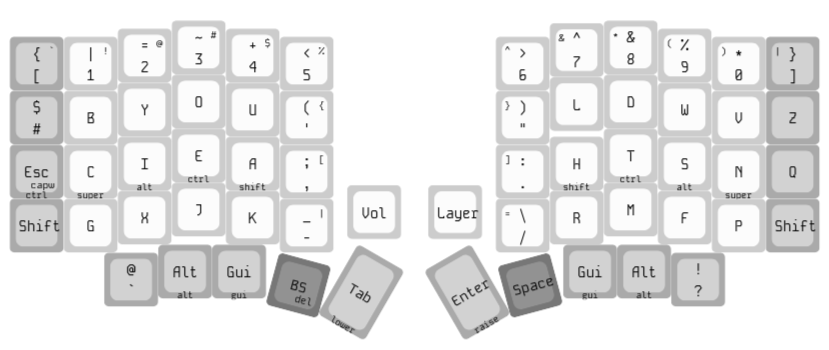
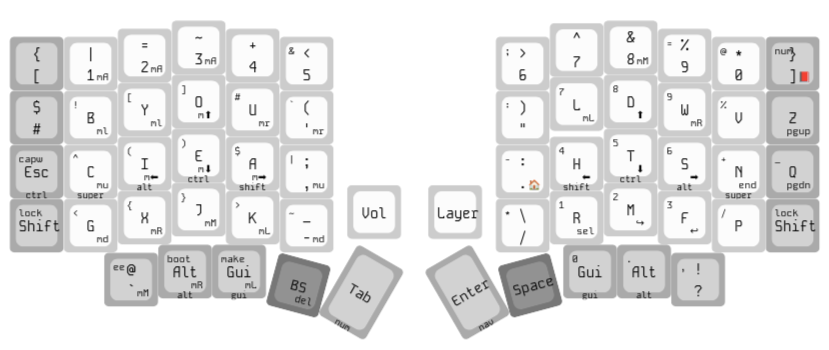
feat: nav + num = ermak (scuffed)

diff --git a/keymap.c b/keymap.c
@@ -57,8 +57,8 @@ const uint16_t PROGMEM keymaps[][MATRIX_ROWS][MATRIX_COLS] = {
   [_DVORAK] = LAYOUT(KC_GRAVE, _______, _______, _______, _______, _______, _______, _______, _______, _______, _______, KC_BACKSLASH, KC_EQUAL, KC_QUOTE, KC_COMMA, KC_DOT, KC_P, KC_Y, KC_F, KC_G, KC_C, KC_R, KC_L, KC_SLASH, _______, LGUI_T(KC_A), LALT_T(KC_O), LCTL_T(KC_E), LSFT_T(KC_U), KC_I, KC_D, RSFT_T(KC_H), RCTL_T(KC_T), RALT_T(KC_N), RGUI_T(KC_S), KC_MINUS, _______, KC_SEMICOLON, KC_Q, KC_J, KC_K, KC_X, _______, DF(_ERMAK), KC_B, KC_M, KC_W, KC_V, KC_Z, KC_RSFT, KC_LEFT_BRACKET, _______, _______, _______, _______, _______, _______, _______, _______, KC_RIGHT_BRACKET),
   [_QWERTY] = LAYOUT(KC_GRAVE, _______, _______, _______, _______, _______, _______, _______, _______, _______, _______, KC_BACKSLASH, KC_EQUAL, KC_Q, KC_W, KC_E, KC_R, KC_T, KC_Y, KC_U, KC_I, KC_O, KC_P, KC_MINUS, _______, LGUI_T(KC_A), LALT_T(KC_S), LCTL_T(KC_D), LSFT_T(KC_F), KC_G, KC_H, RSFT_T(KC_J), RCTL_T(KC_K), RALT_T(KC_L), RGUI_T(KC_SEMICOLON), KC_DOUBLE_QUOTE, _______, KC_Z, KC_X, KC_C, KC_V, KC_B, _______, _______, KC_N, KC_M, KC_COMMA, KC_DOT, KC_SLASH, KC_RSFT, KC_LEFT_BRACKET, _______, _______, _______, _______, _______, _______, _______, _______, KC_RIGHT_BRACKET),
   [_GAMING] = LAYOUT(KC_GRAVE, _______, _______, _______, _______, _______, _______, _______, _______, _______, _______, KC_BACKSLASH, KC_EQUAL, KC_P, KC_Q, KC_W, KC_E, KC_R, KC_T, KC_Y, KC_U, KC_I, KC_O, KC_MINUS, _______, KC_SEMICOLON, KC_A, KC_S, KC_D, KC_F, KC_G, KC_H, KC_J, KC_K, KC_L, KC_DOUBLE_QUOTE, _______, KC_SLASH, KC_Z, KC_X, KC_C, KC_V, _______, _______, KC_B, KC_N, KC_M, KC_COMMA, KC_DOT, KC_RSFT, KC_LEFT_BRACKET, _______, _______, _______, _______, _______, _______, _______, _______, KC_RIGHT_BRACKET),
-  [_NUM] = LAYOUT(XXXXXXX, XXXXXXX, XXXXXXX, XXXXXXX, XXXXXXX, KC_AMPERSAND, KC_SEMICOLON, XXXXXXX, XXXXXXX, KC_KP_EQUAL, KC_AT, KC_NUM, XXXXXXX, KC_EXCLAIM, KC_LEFT_BRACKET, KC_RIGHT_BRACKET, KC_HASH, KC_GRAVE, KC_COLON, KC_KP_7, KC_KP_8, KC_KP_9, KC_PERCENT, XXXXXXX, QK_CAPS_WORD_TOGGLE, KC_CIRCUMFLEX, KC_LEFT_PAREN, KC_RIGHT_PAREN, KC_DOLLAR, KC_PIPE, KC_KP_MINUS, KC_KP_4, KC_KP_5, KC_KP_6, KC_KP_PLUS, KC_UNDERSCORE, LSFT_T(PG_LOCK), KC_LEFT_ANGLE_BRACKET, KC_LEFT_CURLY_BRACE, KC_RIGHT_CURLY_BRACE, KC_RIGHT_ANGLE_BRACKET, KC_TILDE, _______, _______, KC_KP_ASTERISK, KC_KP_1, KC_KP_2, KC_KP_3, KC_KP_SLASH, RSFT_T(PG_LOCK), QK_CLEAR_EEPROM, QK_BOOT, QK_MAKE, _______, _______, _______, _______, KC_KP_0, KC_KP_DOT, KC_COMMA),
-  [_NAV] = LAYOUT(XXXXXXX, KC_MS_ACCEL0, KC_MS_ACCEL1, KC_MS_ACCEL2, XXXXXXX, XXXXXXX, XXXXXXX, XXXXXXX, KC_BTN3, XXXXXXX, XXXXXXX, KC_MENU, XXXXXXX, KC_MS_WH_LEFT, KC_MS_WH_RIGHT, KC_MS_UP, XXXXXXX, XXXXXXX, XXXXXXX, KC_BTN1, KC_UP, KC_BTN2, XXXXXXX, KC_PGUP, _______, KC_MS_WH_UP, KC_MS_LEFT, KC_MS_DOWN, KC_MS_RIGHT, XXXXXXX, KC_HOME, KC_LEFT, KC_DOWN, KC_RIGHT, KC_END, KC_PGDN, LSFT_T(PG_LOCK), KC_MS_WH_DOWN, KC_BTN3, KC_BTN2, KC_BTN1, XXXXXXX, _______, _______, XXXXXXX, PG_SEL, KC_UNDO, KC_AGAIN, XXXXXXX, RSFT_T(PG_LOCK), KC_BTN3, KC_BTN2, KC_BTN1, KC_DEL, _______, _______, _______, _______, _______, _______),
+  [_NUM] = LAYOUT(XXXXXXX, XXXXXXX, XXXXXXX, XXXXXXX, XXXXXXX, KC_AMPERSAND, KC_SEMICOLON, XXXXXXX, XXXXXXX, KC_KP_EQUAL, KC_AT, KC_NUM, XXXXXXX, KC_EXCLAIM, KC_LEFT_BRACKET, KC_RIGHT_BRACKET, KC_HASH, KC_GRAVE, KC_COLON, KC_KP_7, KC_KP_8, KC_KP_9, KC_PERCENT, XXXXXXX, QK_CAPS_WORD_TOGGLE, KC_CIRCUMFLEX, KC_LEFT_PAREN, KC_RIGHT_PAREN, KC_DOLLAR, KC_PIPE, KC_KP_MINUS, KC_KP_4, KC_KP_5, KC_KP_6, KC_KP_PLUS, KC_UNDERSCORE, LSFT_T(PG_LOCK), KC_LEFT_ANGLE_BRACKET, KC_LEFT_CURLY_BRACE, KC_RIGHT_CURLY_BRACE, KC_RIGHT_ANGLE_BRACKET, KC_TILDE, _______, _______, KC_KP_ASTERISK, KC_KP_1, KC_KP_2, KC_KP_3, KC_KP_SLASH, RSFT_T(PG_LOCK), QK_CLEAR_EEPROM, QK_BOOT, QK_MAKE, _______, _______, LT(_NAV, DF(_ERMAK)), _______, KC_KP_0, KC_KP_DOT, KC_COMMA),
+  [_NAV] = LAYOUT(XXXXXXX, KC_MS_ACCEL0, KC_MS_ACCEL1, KC_MS_ACCEL2, XXXXXXX, XXXXXXX, XXXXXXX, XXXXXXX, KC_BTN3, XXXXXXX, XXXXXXX, KC_MENU, XXXXXXX, KC_MS_WH_LEFT, KC_MS_WH_LEFT, KC_MS_UP, KC_MS_WH_RIGHT, KC_MS_WH_RIGHT, XXXXXXX, KC_BTN1, KC_UP, KC_BTN2, XXXXXXX, KC_PGUP, _______, KC_MS_WH_UP, KC_MS_LEFT, KC_MS_DOWN, KC_MS_RIGHT, KC_MS_WH_UP, KC_HOME, KC_LEFT, KC_DOWN, KC_RIGHT, KC_END, KC_PGDN, LSFT_T(PG_LOCK), KC_MS_WH_DOWN, KC_BTN3, KC_BTN2, KC_BTN1, KC_MS_WH_DOWN, _______, _______, XXXXXXX, PG_SEL, KC_UNDO, KC_AGAIN, XXXXXXX, RSFT_T(PG_LOCK), KC_BTN3, KC_BTN2, KC_BTN1, KC_DEL, LT(_NUM, DF(_ERMAK)), _______, _______, _______, _______, _______),
   [_MEDIA] = LAYOUT(XXXXXXX, XXXXXXX, XXXXXXX, XXXXXXX, XXXXXXX, XXXXXXX, XXXXXXX, XXXXXXX, XXXXXXX, XXXXXXX, XXXXXXX, XXXXXXX, XXXXXXX, KC_MEDIA_REWIND, XXXXXXX, XXXXXXX, XXXXXXX, XXXXXXX, XXXXXXX, KC_MEDIA_NEXT_TRACK, XXXXXXX, XXXXXXX, XXXXXXX, XXXXXXX, _______, XXXXXXX, XXXXXXX, XXXXXXX, XXXXXXX, XXXXXXX, XXXXXXX, KC_MEDIA_PREV_TRACK, XXXXXXX, KC_MEDIA_STOP, KC_MEDIA_NEXT_TRACK, XXXXXXX, LSFT_T(PG_LOCK), XXXXXXX, XXXXXXX, KC_VOLD, KC_VOLU, XXXXXXX, _______, _______, XXXXXXX, XXXXXXX, KC_MUTE, KC_MEDIA_FAST_FORWARD, KC_MEDIA_PREV_TRACK, RSFT_T(PG_LOCK), XXXXXXX, XXXXXXX, XXXXXXX, _______, _______, _______, KC_MEDIA_PLAY_PAUSE, XXXXXXX, XXXXXXX, XXXXXXX),
   [_SYS] = LAYOUT(XXXXXXX, XXXXXXX, XXXXXXX, XXXXXXX, XXXXXXX, XXXXXXX, XXXXXXX, XXXXXXX, XXXXXXX, XXXXXXX, XXXXXXX, XXXXXXX, XXXXXXX, XXXXXXX, XXXXXXX, XXXXXXX, XXXXXXX, XXXXXXX, XXXXXXX, XXXXXXX, XXXXXXX, KC_WAKE, XXXXXXX, XXXXXXX, _______, XXXXXXX, XXXXXXX, XXXXXXX, XXXXXXX, XXXXXXX, XXXXXXX, XXXXXXX, XXXXXXX, KC_SLEP, XXXXXXX, XXXXXXX, LSFT_T(PG_LOCK), XXXXXXX, XXXXXXX, KC_BRID, KC_BRIU, XXXXXXX, _______, _______, XXXXXXX, XXXXXXX, XXXXXXX, XXXXXXX, KC_PWR, RSFT_T(PG_LOCK), XXXXXXX, XXXXXXX, XXXXXXX, _______, _______, _______, _______, XXXXXXX, XXXXXXX, XXXXXXX),
   [_LAYERS] = LAYOUT(KC_F12, KC_F1, KC_F2, KC_F3, KC_F4, KC_F5, KC_F6, KC_F7, KC_F8, KC_F9, KC_F10, KC_F11, EH_LEFT, XXXXXXX, XXXXXXX, XXXXXXX, XXXXXXX, XXXXXXX, XXXXXXX, XXXXXXX, DF(_DVORAK), XXXXXXX, XXXXXXX, EH_RGHT, _______, XXXXXXX, XXXXXXX, DF(_ERMAK), XXXXXXX, XXXXXXX, XXXXXXX, XXXXXXX, DF(_TYPING), DF(_SYS), XXXXXXX, DF(_QWERTY), LSFT_T(PG_LOCK), DF(_GAMING), XXXXXXX, XXXXXXX, XXXXXXX, XXXXXXX, _______, _______, XXXXXXX, XXXXXXX, DF(_MEDIA), XXXXXXX, XXXXXXX, RSFT_T(PG_LOCK), XXXXXXX, XXXXXXX, XXXXXXX, _______, _______, _______, _______, XXXXXXX, XXXXXXX, XXXXXXX),
@@ -75,14 +75,21 @@ bool process_record_user(uint16_t keycode, keyrecord_t *record) {
   if (!process_select_word(keycode, record, PG_SEL)) { return false; }
 
   if (
-    get_highest_layer(default_layer_state) == _ERMAK &&
-    get_highest_layer(layer_state) == _ERMAK &&
+    (get_highest_layer(default_layer_state) == _ERMAK || get_highest_layer(default_layer_state) == _TYPING) &&
     !process_custom_shift_keys(keycode, record)
   ) {
     return false;
   }
 
   switch (keycode) {
+    case LT(_NUM, DF(_ERMAK)):
+    case LT(_NAV, DF(_ERMAK)):
+      if (record->event.pressed && record->tap.count) {
+        set_single_persistent_default_layer(_ERMAK);
+        return false;
+      }
+      break;
+
     case LSFT_T(PG_LOCK):
     case RSFT_T(PG_LOCK):
       if (record->event.pressed && record->tap.count) {

diff --git a/templates/keymap.c b/templates/keymap.c
@@ -59,14 +59,21 @@ bool process_record_user(uint16_t keycode, keyrecord_t *record) {
   if (!process_select_word(keycode, record, PG_SEL)) { return false; }
 
   if (
-    get_highest_layer(default_layer_state) == _ERMAK &&
-    get_highest_layer(layer_state) == _ERMAK &&
+    (get_highest_layer(default_layer_state) == _ERMAK || get_highest_layer(default_layer_state) == _TYPING) &&
     !process_custom_shift_keys(keycode, record)
   ) {
     return false;
   }
 
   switch (keycode) {
+    case LT(_NUM, DF(_ERMAK)):
+    case LT(_NAV, DF(_ERMAK)):
+      if (record->event.pressed && record->tap.count) {
+        set_single_persistent_default_layer(_ERMAK);
+        return false;
+      }
+      break;
+
     case LSFT_T(PG_LOCK):
     case RSFT_T(PG_LOCK):
       if (record->event.pressed && record->tap.count) {
